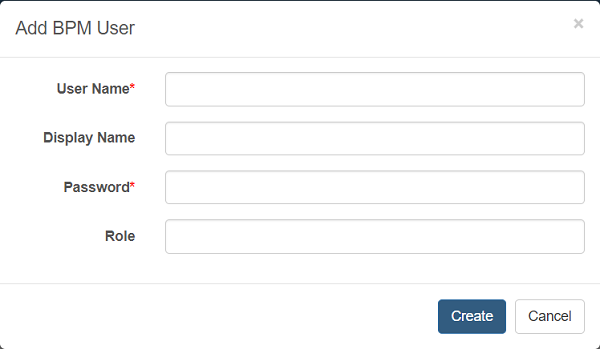
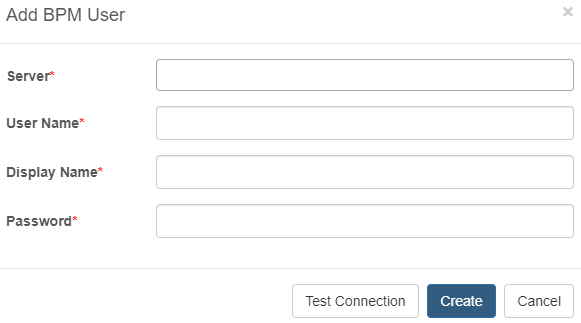
update

diff --git a/_posts/2018-07-02-administration-bpm-configuration.md b/_posts/2018-07-02-administration-bpm-configuration.md
@@ -67,16 +67,24 @@ If you login get 401 unauthorized error,please check your function id belong to 
      ![][administrator_bpmuser]           
 
 	 |   Field                | Description                                                             |
-     | ---------------------- |-------------------------------------------------------------------------|                                          
-     | User    Name           | the user name of BPM server                                              |  
+     | ---------------------- |-------------------------------------------------------------------------| 
+     | Server                 | the BPM servers that need to add user                             |                                           
+     | User Name           | the user name of BPM server                                              |  
      | Display Name           | the display name of BPM user                                          |
      | User Password          | the password of BPM user                                                |
-     | Role                   | the logical role name of BPM user                                                    |  
 
 
      After adding user, you can see the user list for this BPM server.
 
-     ![][administrator_bpmuserlist]    
+     ![][administrator_bpmuserlist]   
+     
+  3. If the permission control of your BPM server is controlled by the UMS server, please add your UMS Admin user into ida and set it as UMS Admin user by following action:
+  
+  	- Add UMS Admin user following steps 1 - 2.
+  	
+  	- Set it as UMS Admin user:
+  	
+  	![][administration_set_as_ums_admin_user]
 
 **Notes:**   
 Pls make sure the added user  exist in your selected BPM server.Also You need to well define the **Display name** of the BPM user.You can choose the **Assignee** display name to choose user for the test case step command.
@@ -84,6 +92,7 @@ Pls make sure the added user  exist in your selected BPM server.Also You need to
   ![][administrator_assignee]   
 
 What's more, you can also edit a bpm user in a similar way to editing a user.
+
 
 ### Add Case Object Store configuration to a BPM server
   1. Click **Case Object Store** icon on the right of the BPM server. Then you can see then Case Object Store configuration list of the server.
@@ -117,6 +126,7 @@ What's more, you can also edit a case object store configuration in a similar wa
 [administrator_bpmserver]: ../images/administrator/administrator_bpmserver.png
 [administrator_bpmoc]: ../images/administrator/bpmoc.png
 [administrator_bpmuser]: ../images/administrator/administrator_bpmuser.png
+[administration_set_as_ums_admin_user]: ../images/administrator/administration_set_as_ums_admin_user.png
 [administrator_bpmuserlist]: ../images/administrator/administrator_bpmuserlist.png
 [administrator_assignee]: ../images/administrator/administrator_asignee.png
 [add_icon]: ../images/administrator/Administrator_add_icon.png

diff --git a/_posts/2018-01-04-installation-ida-installing.md b/_posts/2018-01-04-installation-ida-installing.md
@@ -583,12 +583,12 @@ The testing capability can only launch the exposed Business Processes, Human Ser
 ## Chrome plugin
 - Open the url <a href="https://chrome.google.com/webstore/search/IDA%20IBM" target="_blank">https://chrome.google.com/webstore/search/IDA%20IBM</a>
 - Click "Add to Chrome" button to install plug-in.
-- The Chrome plugin offline installation package. [IDA-21.0.0.crx](https://github.com/sdc-china/IDA-plugin/raw/master/chrome/IDA-21.0.0.crx)
-- For Chrome plugin to work on IDA web version >= 21.0.0, please configure the cookieSameSite attribute of http session on liberty server.xml or WAS console. See docs above.
+- The Chrome plugin offline installation package. [IDA-21.1.0.crx](https://github.com/sdc-china/IDA-plugin/raw/master/chrome/IDA-21.1.0.crx)
+- For Chrome plugin to work on IDA web version >= 21.1.0, please configure the cookieSameSite attribute of http session on liberty server.xml or WAS console. See docs above.
 
 ## Firefox plugin
-- Download Firefox plugin [ida-21.0.0-fx.xpi](https://github.com/sdc-china/IDA-plugin/raw/master/firefox/ida-21.0.0-fx.xpi)
-- Drag the "ida-21.0.0-fx.xpi" file into firefox window.
+- Download Firefox plugin [ida-21.1.0-fx.xpi](https://github.com/sdc-china/IDA-plugin/blob/master/firefox/ida-21.1.0-fx.xpi)
+- Drag the "ida-21.1.0-fx.xpi" file into firefox window.
 - Click "Add" button.
 - For Firefox plugin to work on IDA web version >= 21.0.0, please double check after plugin installation, Firefox Privacy settings is adjusted to custom as follows:
 
